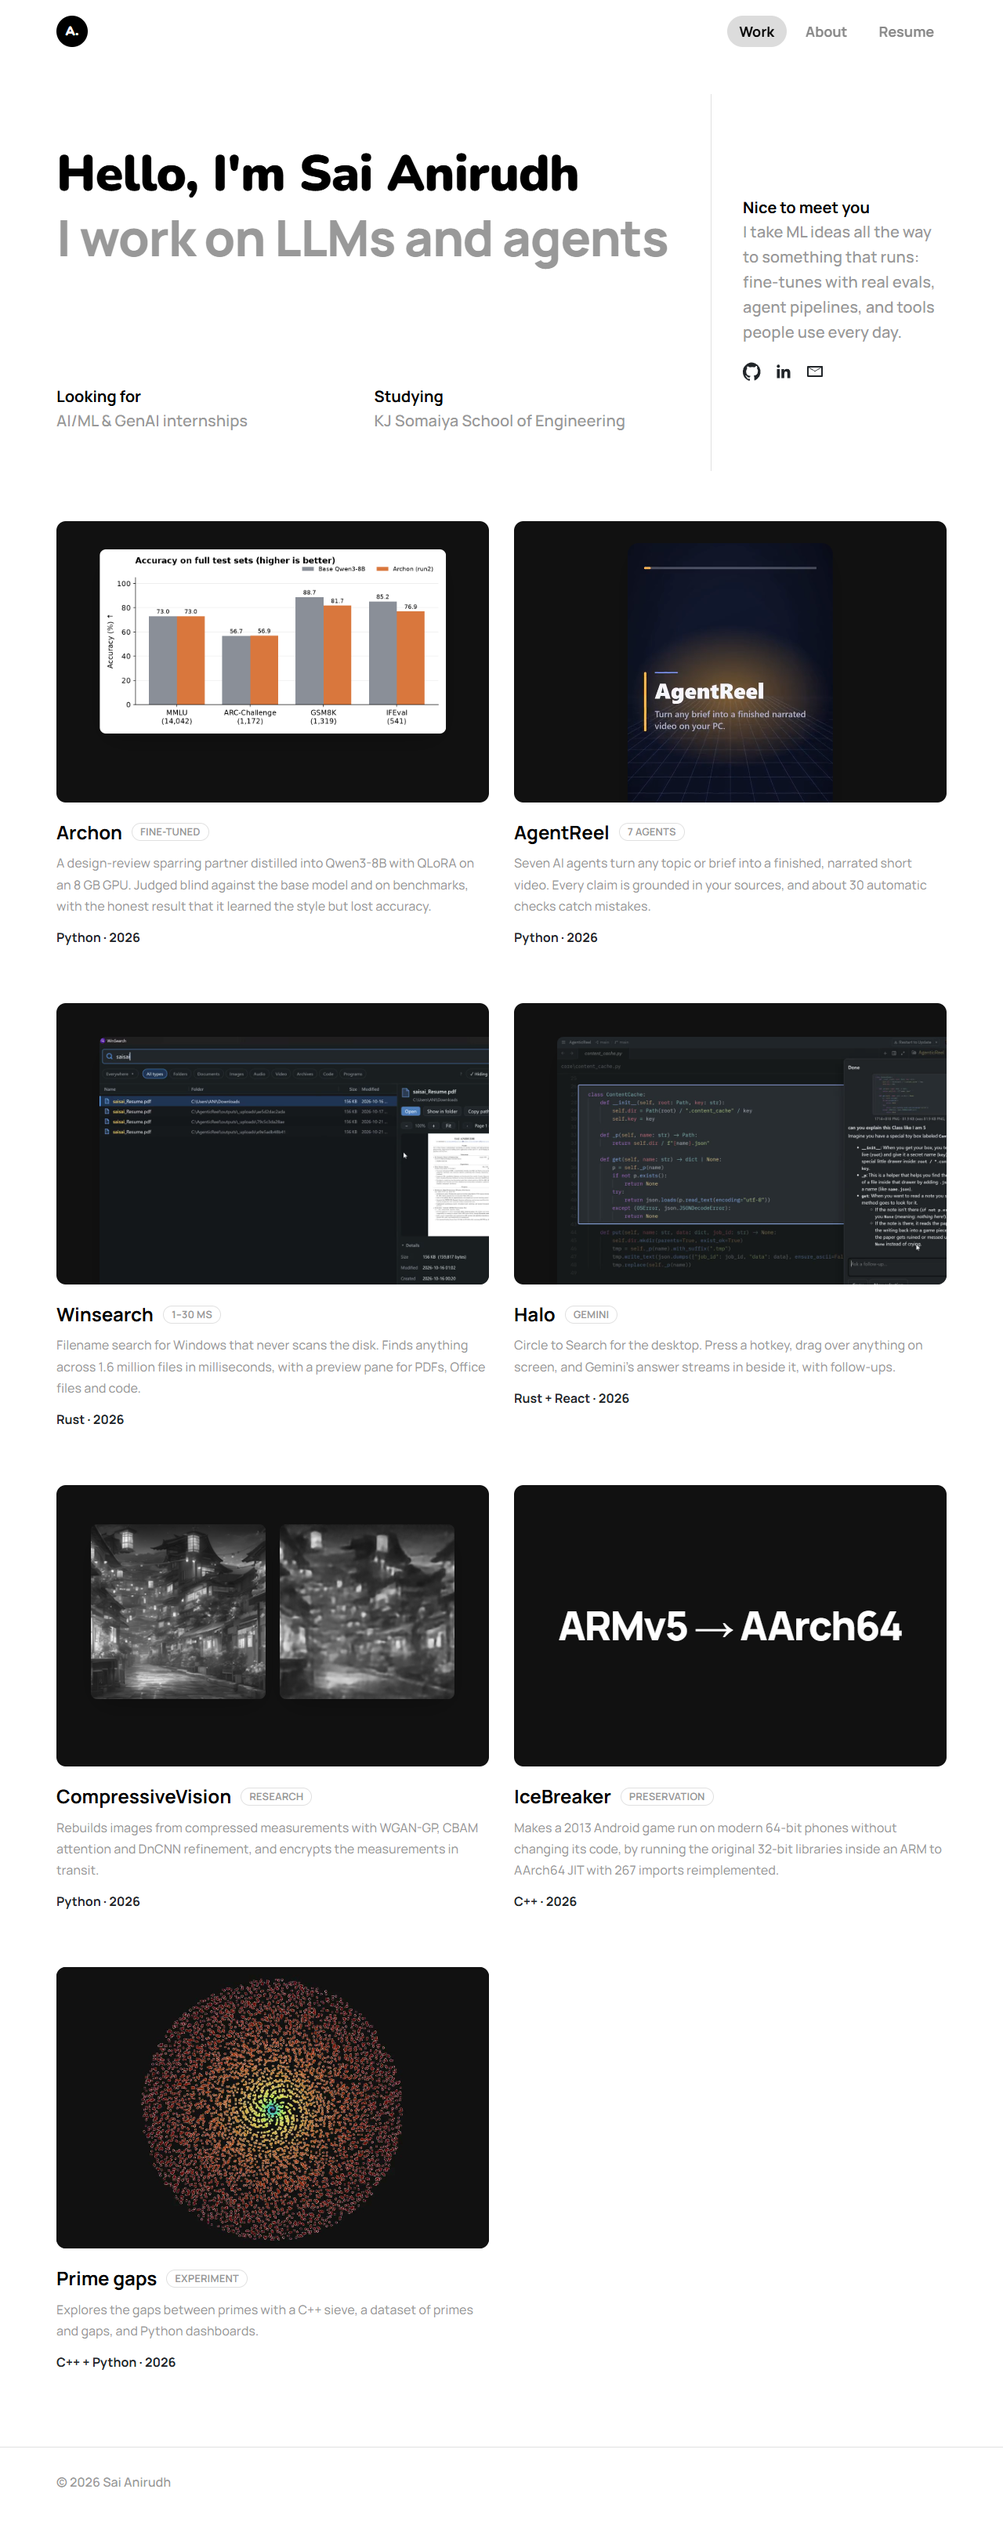
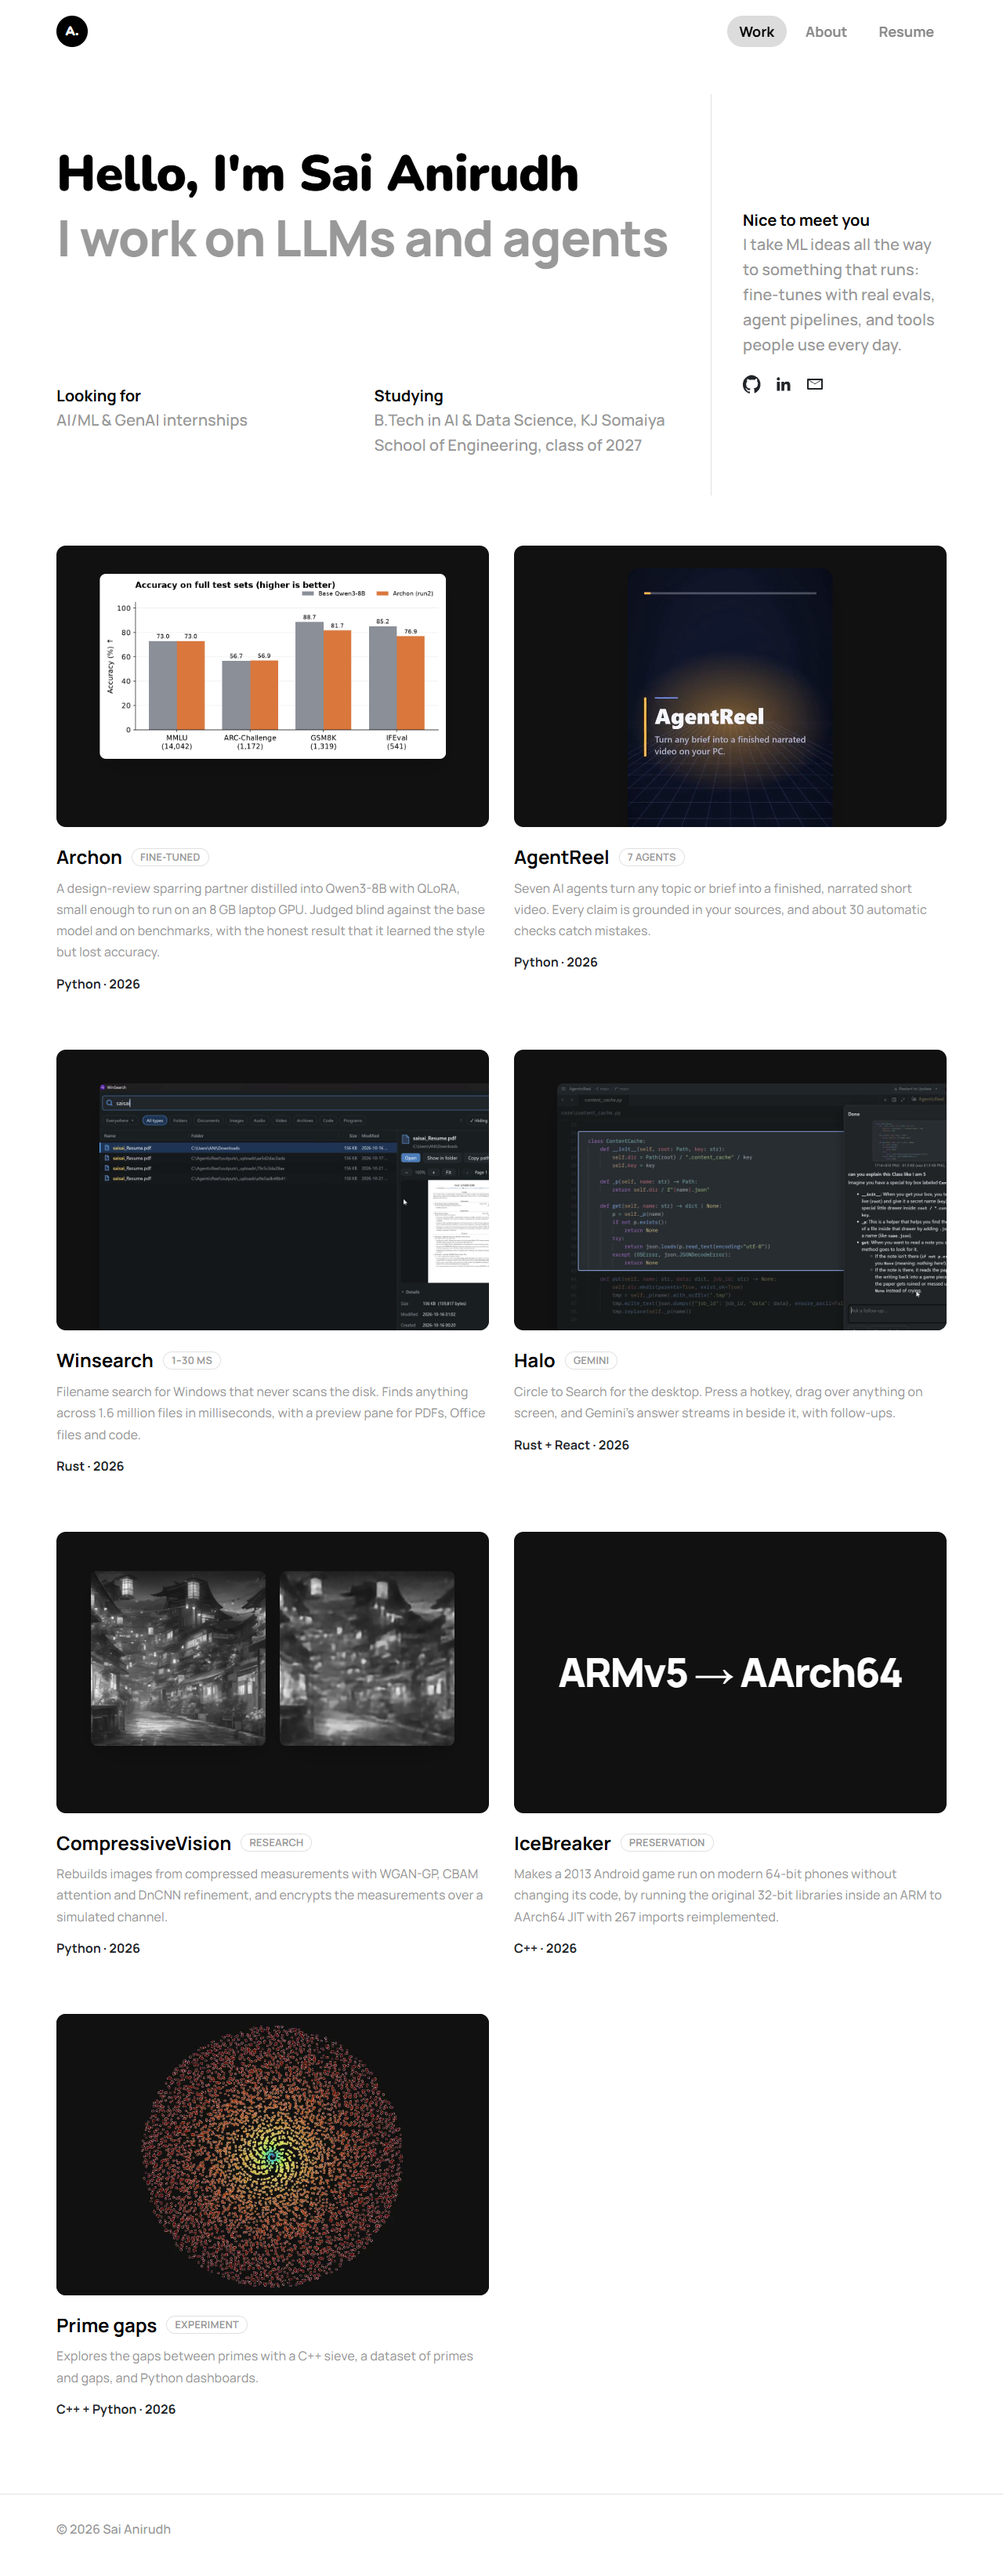
docs: describe the full Prime dashboard

diff --git a/src/content/projects/prime.md b/src/content/projects/prime.md
@@ -2,22 +2,30 @@
 title: Prime gaps
 order: 7
 badge: Experiment
-summary: Explores the gaps between primes with a C++ sieve, a dataset of primes and gaps, and Python dashboards.
+summary: A C++ sieve generates 148,933 primes and their gaps, and an eight-page Streamlit dashboard explores them, from the Prime Number Theorem and gap statistics to the AKS test and Mersenne primes.
 meta: C++ + Python · 2026
 repo: https://github.com/Aniyow/Prime
-tags: [C++, Python, Streamlit]
+tags: [C++, Python, Streamlit, Plotly, scikit-learn]
 media: { kind: video, src: /media/prime-dark.mp4, poster: /media/prime-dark-poster.jpg, alt: "Primes drawn on an Ulam spiral", layout: fill }
 ---
 
 ## The problem
 
-Primes look random, but the gaps between them have patterns. I wanted to generate a lot of them quickly and look at the gaps from a few angles.
+Primes look random, but the gaps between them follow patterns. I wanted to generate a lot of them quickly and look at them from several angles in one place.
 
 ## How it works
 
-- A Sieve of Eratosthenes in C++ finds every prime up to 2,000,000 and records the gap from the previous one.
-- A Streamlit dashboard plots the distribution of gaps and draws the primes on an Ulam spiral.
+- A Sieve of Eratosthenes in C++ finds every prime up to 2,000,000 and writes each one with its gap from the previous prime.
+- A Streamlit and Plotly dashboard, with dark and light themes and a slider for how many primes to load, has eight pages:
+  - Overview: the prime count π(x), gaps over the sequence, and summary statistics.
+  - Prime Number Theorem: π(x) against x / log(x).
+  - Gap analysis: the distribution, KDE and CDF of gaps.
+  - Ulam spiral: the primes on a spiral, with an animated reveal.
+  - AKS primality test: checks primality using binomial coefficients mod n.
+  - Density and last digits: primes per 1,000 numbers, and how primes above 5 split across the last digits 1, 3, 7 and 9.
+  - ML regression: a linear regression of gap size against the prime, with residuals and correlation.
+  - Mersenne primes: all 52 known primes of the form 2^p − 1.
 
 ## Results
 
-The sieve produces 148,933 primes and their gaps. The animation on this page is the Ulam spiral from the dashboard.
+The sieve produces 148,933 primes. For the first 50,000, the mean gap is 12.24, the largest is 114 and the most common is 6. The gaps are right-skewed (skewness 1.8) and correlate only weakly with the size of the prime (r = 0.16). The animation on this page is the dashboard's Ulam spiral.
